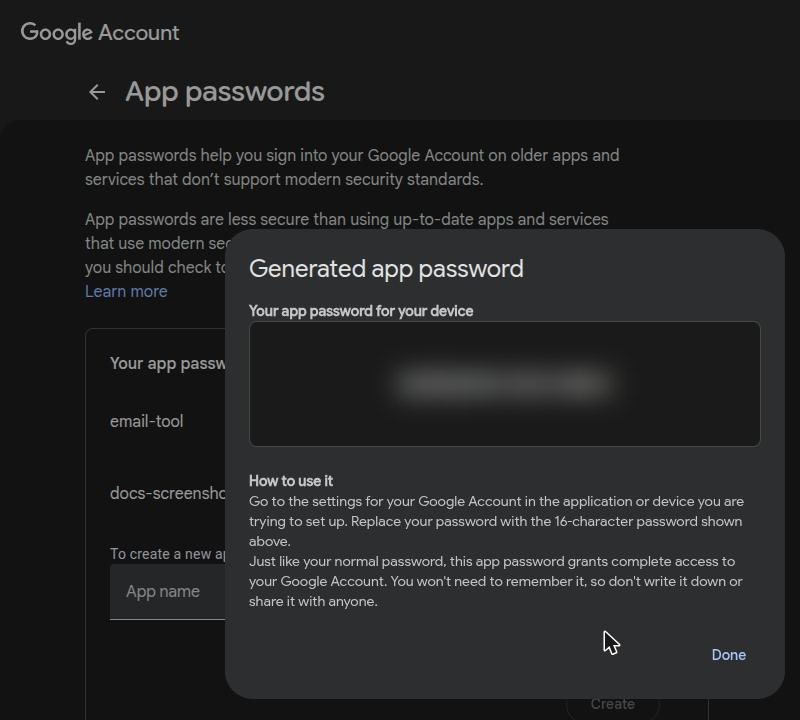
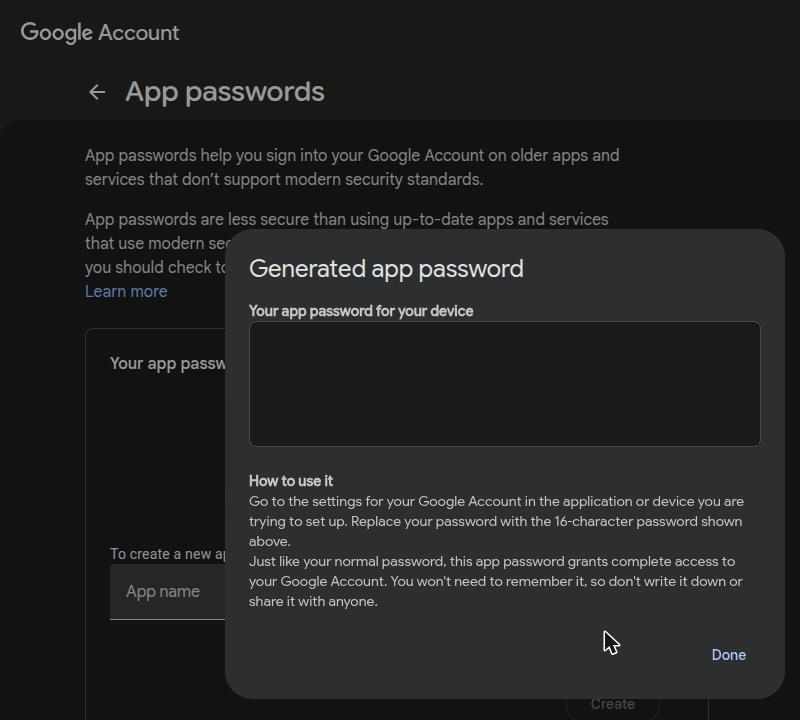
Review fixes: password box covered solid, existing rows hidden
The generated password is covered with a solid box instead of a blur, and
the account's existing app password rows are covered, so the pictures show
only what the steps describe. The page says the password is hidden.

Refs #77

Changed region(s): [[0.5, 0.4889, 0.7812, 0.5806], [0.125, 0.6722, 0.2812, 0.7028], [0.125, 0.5806, 0.25, 0.6111]]

diff --git a/docs/mailboxes.md b/docs/mailboxes.md
@@ -83,10 +83,10 @@ Gmail accepts an **App Password**, a 16-letter password made for one app.
 
     ![The App passwords page with email-tool typed as the app name](assets/screens/gmail-app-password-name.png)
 
-3. Google shows your App Password in a box: four groups of four letters. Copy it, then
-   select **Done**. Google shows it only once.
+3. Google shows your App Password in the box: four groups of four letters (hidden in this
+   picture). Copy it, then select **Done**. Google shows it only once.
 
-    ![Google shows the generated app password, blurred here](assets/screens/gmail-app-password-shown.png)
+    ![Google shows the generated app password in a box, hidden in this picture](assets/screens/gmail-app-password-shown.png)
 
 4. Run the command below and paste the App Password when asked:
 
